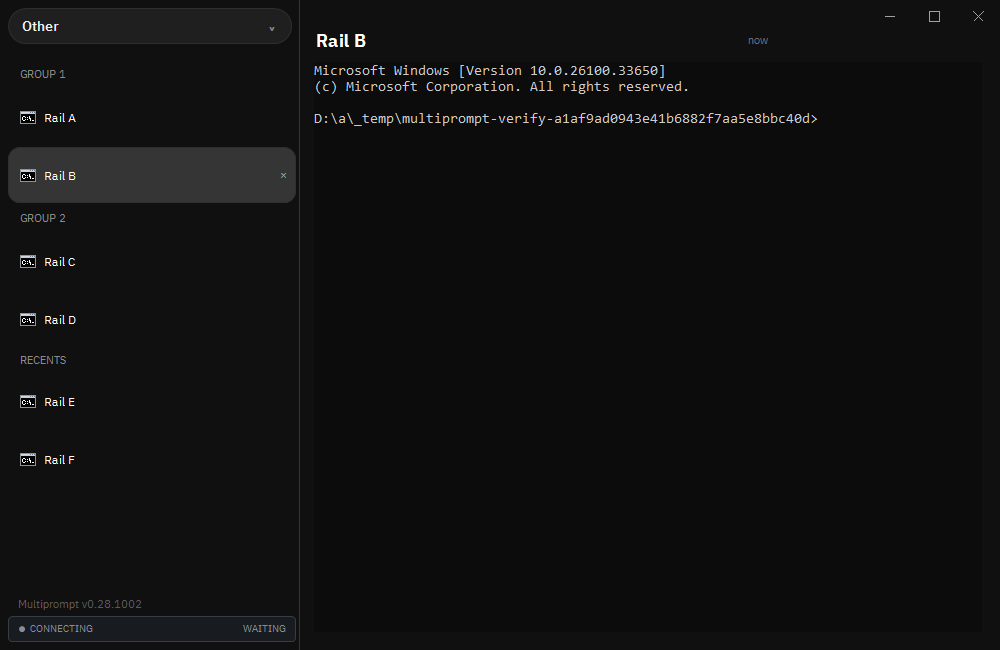
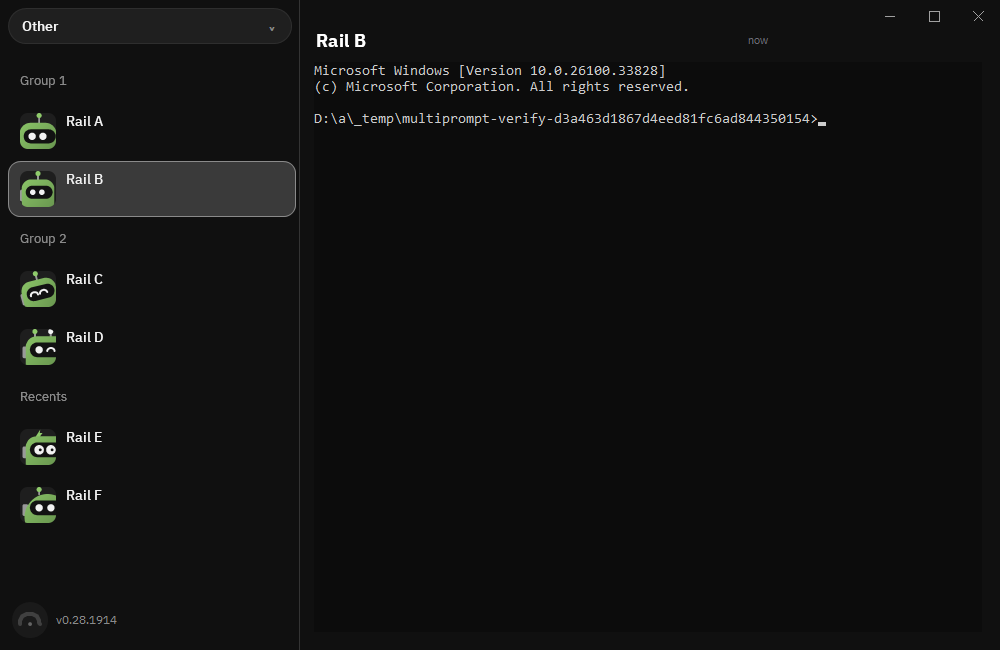
MUBO-263: Recapture the group-rail fixtures from today's app
The group pixel proof's shipped-screenshot leg is red on master. Run
45334323074, verify (group-rail), shows the proof passing on live pixels from
the current app:

  group-rail-selected-1: {"noFill":true,"noRail":true,"flushLeft":true,
    "fillMismatch":0,"nameX":[21,21],"headerTops":[60,218],
    "headerHeight":42,"rowHeight":58}
  group-rail-labels: {"sameStyle":true,"noArrow":true,
    "formerButtonRegionEmpty":true}

The shipped fixtures were captured at v0.28.1002, when the group header was 28
pixels tall: their two headline text bands sit 144 pixels apart, which is
28 + 2 x 58. IGSH-1198 made the header 42, so the stored screenshots can no
longer satisfy a proof that reads the app's heights, whatever the proof code
says:

  tools/fixtures/IGSH-1150/group-rail-selected-1.png  (old capture)
  band 70-77 = GROUP 1, band 214-221 = GROUP 2, 144 pixels apart

The three fixtures are now the same window region from run 45334323074
(v0.28.1914, frame and client origin both at the image corner, 96 DPI, 100
percent, 300-pixel sidebar), so the proof measures today's layout. The
group-rail feature map now owns tools/fixtures/IGSH-1150/* so a fixture change
reruns the journey that reads it.

Undo: git revert --no-edit HEAD

diff --git a/.claude/skills/verify-multiprompt/features/group-rail.md b/.claude/skills/verify-multiprompt/features/group-rail.md
@@ -1,6 +1,6 @@
 # Group headlines
 
-Source files: src/workspaces.zig, src/workspace*, src/session.zig, src/sidebar.zig, src/group*, src/main.zig, build.zig, build.zig.zon, src/command_palette.zig, src/shortcuts.zig, .claude/skills/verify-multiprompt/control-feature-group-rail.ps1
+Source files: src/workspaces.zig, src/workspace*, src/session.zig, src/sidebar.zig, src/group*, src/main.zig, build.zig, build.zig.zon, src/command_palette.zig, src/shortcuts.zig, .claude/skills/verify-multiprompt/control-feature-group-rail.ps1, tools/fixtures/IGSH-1150/*
 
 Verify on: push
 
